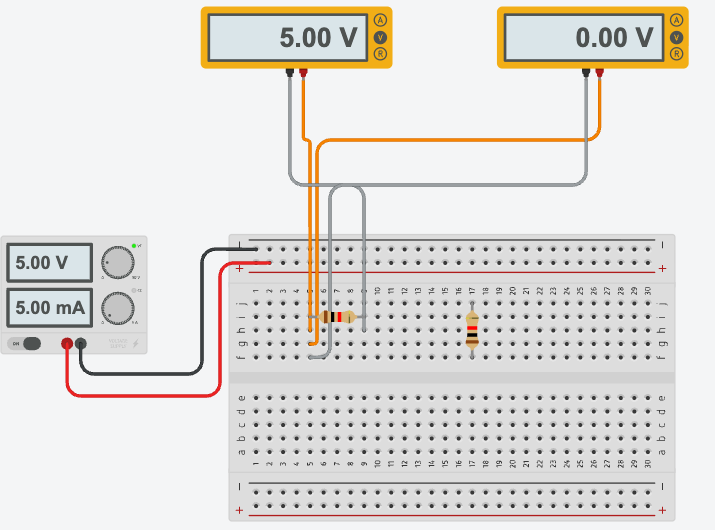
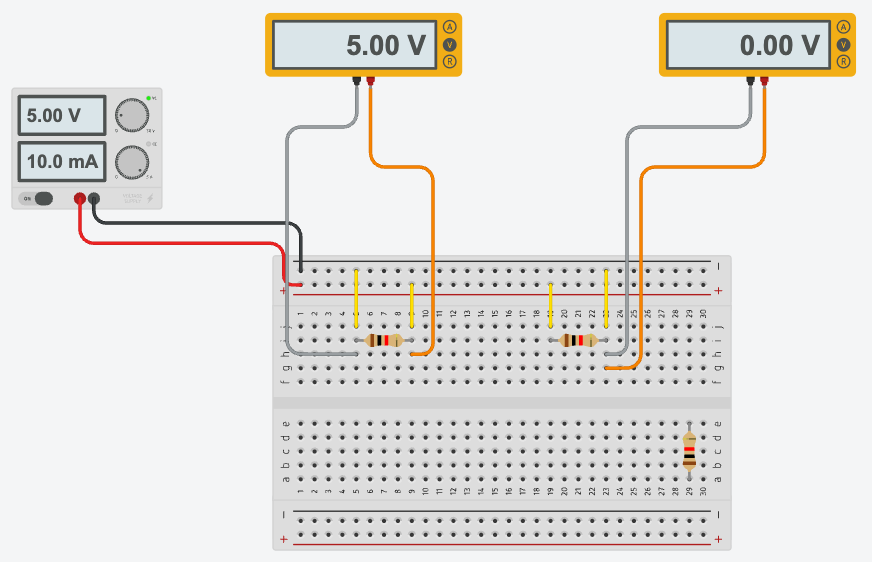
fix(style): 補上 .nc-prose h4–h6 字級與間距，重畫助教「同一欄＝短路」實測圖
h4 之前完全沒有規則，吃到全域 `h1..h6 { margin: 0 }` 與瀏覽器預設的
font-size: 1em（16px），比內文的 --text-md（18px）還小而且上下沒有間距。
補成 h4 20px / h5 18px / h6 16px 並各給 margin 與 scroll-margin-top。
全站 11 篇筆記共 230 個 #### 標題一起受惠。

第 3 週筆記那張「直著接 vs 橫著接」的圖看不懂：右邊那顆直插的電阻懸空
沒接進任何電路，讀 0.00 V 的電表量的卻是左邊電路的同一欄，兩件事擠在
一起，四條探棒線又全疊在第 5–9 欄。改成同一塊板子上兩個相同的電路，
各配一支電表——左邊跨第 5↔9 欄讀 5.00 V、右邊兩支棒子都插第 23 欄讀
0.00 V，直插的示意電阻移到板子下半部獨立擺放。圖說與 alt 一併改寫。

lab-workflow skill 記下這次踩到的坑：麵包板在元件庫叫「電路試驗板」、
搜尋框會過濾清單、`.root_container` 捲動會讓工具列消失使 wireColor 失敗、
探棒走線要走「兩欄之間的無孔 x」再橫向切入。

Claude-Session: https://claude.ai/code/session_01P4nGjqc6DGvdnnniETtuQw

diff --git a/src/styles/global.css b/src/styles/global.css
@@ -77,6 +77,11 @@ img { max-width: 100%; display: block; }
 .nc-prose > h1:first-child { margin-top: 8px; }
 .nc-prose h2 { font-size: var(--text-2xl); color: var(--text-strong); margin: 38px 0 14px; scroll-margin-top: 90px; }
 .nc-prose h3 { font-size: var(--text-xl); color: var(--text-strong); margin: 28px 0 10px; scroll-margin-top: 90px; }
+/* h4–h6 若不定義，會吃到全域 `h1..h6 { margin: 0 }` 與瀏覽器預設的 font-size: 1em，
+   結果是「標題比內文（--text-md, 1.125rem）還小、而且完全沒有上下間距」。 */
+.nc-prose h4 { font-size: var(--text-lg); color: var(--text-strong); margin: 24px 0 8px; scroll-margin-top: 90px; }
+.nc-prose h5 { font-size: var(--text-md); color: var(--text-strong); margin: 20px 0 6px; scroll-margin-top: 90px; }
+.nc-prose h6 { font-size: var(--text-base); color: var(--text-muted); margin: 18px 0 6px; scroll-margin-top: 90px; }
 .nc-prose p:not([data-nc-viz-body] *) { font-size: var(--text-md); color: var(--text-body); line-height: 1.85; margin: 0 0 16px; }
 .nc-prose :is(ul, ol):not([data-nc-viz-body] *) { margin: 0 0 18px; padding-left: 26px; color: var(--text-body); font-size: var(--text-md); line-height: 1.85; }
 .nc-prose ul { list-style: disc; }

diff --git a/.claude/skills/lab-workflow/references/tinkercad-recipes.md b/.claude/skills/lab-workflow/references/tinkercad-recipes.md
@@ -77,7 +77,8 @@ Tinkercad 沒有 API，作者要自己拖；本 skill 的產出是**讓作者三
 | 現象 | 原因與做法 |
 | --- | --- |
 | 元件庫搜尋英文找不到 | 用繁中名稱；`電阻` 直接在「基本」分類第一格，不要搜尋 |
-| 找不到函數波產生器／示波器／電源供應器／稽納二極體 | 元件選單類別預設是**基本**，儀器類要先切「**全部**」（`H.allComponents()`）。搜尋框打字**不會過濾**清單，`tileOf` 靠名稱在 DOM 裡找；非當前類別的元件雖然在 DOM 裡但 bbox 是 0，拖曳會從 (0,0) 開始而靜默失敗——判斷有沒有這個元件要看 `getBoundingClientRect().width > 0` |
+| 搜尋不到「麵包板」 | 元件庫裡它叫**電路試驗板**（30 欄的半尺寸是「小型電路試驗板」，四個實驗用的都是這一種；「電路試驗板」是 64 欄的全尺寸）。同名的預製電路排在清單更後面，`tileOf` 取第一個可見的就是元件本身 |
+| 找不到函數波產生器／示波器／電源供應器／稽納二極體 | 元件選單類別預設是**基本**，儀器類要先切「**全部**」（`H.allComponents()`）。搜尋框（`#q`）打字**會過濾**清單，上一個命令留下的關鍵字會讓 `tileOf` 找不到元件，`place()` 每次都先把它清空；非當前類別的元件雖然在 DOM 裡但 bbox 是 0，拖曳會從 (0,0) 開始而靜默失敗——判斷有沒有這個元件要看 `getBoundingClientRect().width > 0` |
 | 要知道某個端子在螢幕哪裡 | 不必用 tooltip 慢慢掃。每個元件底下的 `g.cgfx__terminal` 內有 `desc.cgfx__terminalname`（Anode／Cathode／Positive／Negative／Terminal 1…）與一條 `line`，把 `line` 的 `x1`/`y1` 用該 `g` 的 `getScreenCTM()` 換算就是螢幕座標（`H.terms(cls)`）。`getScreenCTM().e/.f` 只是元件原點，兩個端子會拿到同一組值 |
 | 明明點在端子上卻畫不出線 | 多半是**終點**被既有的 `.wire-segment` 蓋住（`document.elementFromPoint` 一查就知道）。換隔壁一兩欄的孔即可；端子本身有線頭時才需要點旁邊 3 px |
 | 想點選一條既有的線卻選不到 | 圓角讓線段的 bbox 中心不一定落在線上。要用 `el.getPointAtLength(L/2)` 取路徑上的真實點再經 `getScreenCTM()` 換算（`helpers.cjs` 的 `wirePoints()`）|
@@ -92,6 +93,10 @@ Tinkercad 沒有 API，作者要自己拖；本 skill 的產出是**讓作者三
 | 屬性面板的欄位 y 座標對不上 | 面板位置會隨選到的元件而變，寫死 y 會設錯欄位。用標籤找（`H.setField('頻率', '60')`、`H.setSelect('kΩ')`），面板 x 約在 880–1170 之間 |
 | 電容拉不到目標欄 | 電阻、一般二極體、稽納二極體的腳距是**四欄**，電容（含極性電容）只有**一欄**。要與電阻並聯就把電容插在相鄰兩欄，再補一條跳線把第二腳接到另一個節點 |
 | 元件本體壓到鄰列的元件 | 按 `R` 六次轉 180°，本體會改朝下掛進溝槽，孔位不變 |
+| 工具列（配線顏色、復原）整排消失、`wireColor()` 一直回 false | `.root_container` 的 `scrollTop` 會被之前的操作推到 105，把頁首與工具列捲出視窗，於是 `pickColor` 點的 (369, 76) 落在畫布上。每次要點工具列之前先 `document.querySelector('.root_container').scrollTop = 0`；這也會讓 `geom()` 的 y 座標整體位移 105，所以重設完要重讀幾何 |
+| `allComponents()` 回 `FAILED` 但類別其實已經是「全部」 | 它用「函數波產生器可見」判斷，而該元件在清單很下面、還沒 render 時 bbox 是 0。先讀 `.editor__dropdown__button__text--item` 的文字確認類別，是「全部」就直接 `place()`，`tileOf` 自己會 `scrollIntoView` |
+| 探棒線擠在同一區、看不出哪支接哪裡 | 從儀器垂直落到板子的線一定會壓過電源軌與 j／i 列的孔。改成「先在板子上方拉到一個**沒有孔的 x**（兩欄之間，例如 col10 與 col11 中間），垂直穿過電源軌，再沿著 h／g 列橫向切進目標孔」；兩條線要避免交叉時，**往外繞比較遠的那條走比較高的水平走廊** |
+| 多個量測擠在同一組欄位 | 與其在同一個電路上插四支棒子，不如在同一塊板子上接**兩個相同的電路**、各配一支電表，欄位隔開十幾欄。圖的可讀性比省元件重要 |
 | 失敗的點擊讓整個畫布位移 | Tinkercad 會平移／縮放視圖，所有座標都會變。每一步都重讀 `H.geom()`／`H.terms()`，不要沿用上一個命令算出來的座標 |
 | 截圖裡電源軌冒出一排綠圈和紅方塊 | 那是滑鼠停在某個節點上的高亮。截圖前先 `page.mouse.move()` 到畫布角落空白處再等一下 |
 | 線路圖檢視的二極體編號和講義對不起來 | Tinkercad 依**放置順序**自動命名 D1、D2…，不是照講義編號。橋式這種四顆二極體的電路，線路圖還會被攤平成一直線，不適合當筆記配圖 |

diff --git a/.claude/skills/lab-workflow/scripts/tinkercad/README.md b/.claude/skills/lab-workflow/scripts/tinkercad/README.md
@@ -26,4 +26,7 @@
 
 - `build-lab1-exp1.js`：以 `./run.sh 001 < build-lab1-exp1.js` 執行，會重新載入指定設計、清空畫布、照講義畫法重建實驗一並跑模擬截圖。改設計網址與元件即可套到其他實驗。（寫在 `helpers.cjs` 之前，函式是內嵌的。）
 
-- 已建好的設計：實驗一 `jKblOBzuo2v`（Forward Bias: Knee Voltage）、實驗二 `2oSQv0GjSSi`（Reverse Bias）、實驗三 `d55wQxQs1FC`（Half-Wave Rectifier）、實驗四 `384Ncqz5XD3`（Full-Wave Bridge Rectifier）。
+- 麵包板在元件庫叫**電路試驗板**；四個實驗用的 30 欄板子是「小型電路試驗板」。搜尋框會過濾清單，用 `H.place(name, x, y)`（它會先清空搜尋框）。
+- 點工具列（配線顏色）之前先把 `.root_container` 的 `scrollTop` 歸零，否則頁首被捲掉、`wireColor()` 會靜默失敗；歸零後所有 y 座標會位移，要重讀 `H.geom()`。
+
+- 已建好的設計：實驗一 `jKblOBzuo2v`（Forward Bias: Knee Voltage）、實驗二 `2oSQv0GjSSi`（Reverse Bias）、實驗三 `d55wQxQs1FC`（Half-Wave Rectifier）、實驗四 `384Ncqz5XD3`（Full-Wave Bridge Rectifier）；課前教學用的 `fUK2JBC2tGl`（Preclass: Series Resistors & Meters）、`8A3v53Rb7JM`（Preclass: Same Column = Short Circuit）。
